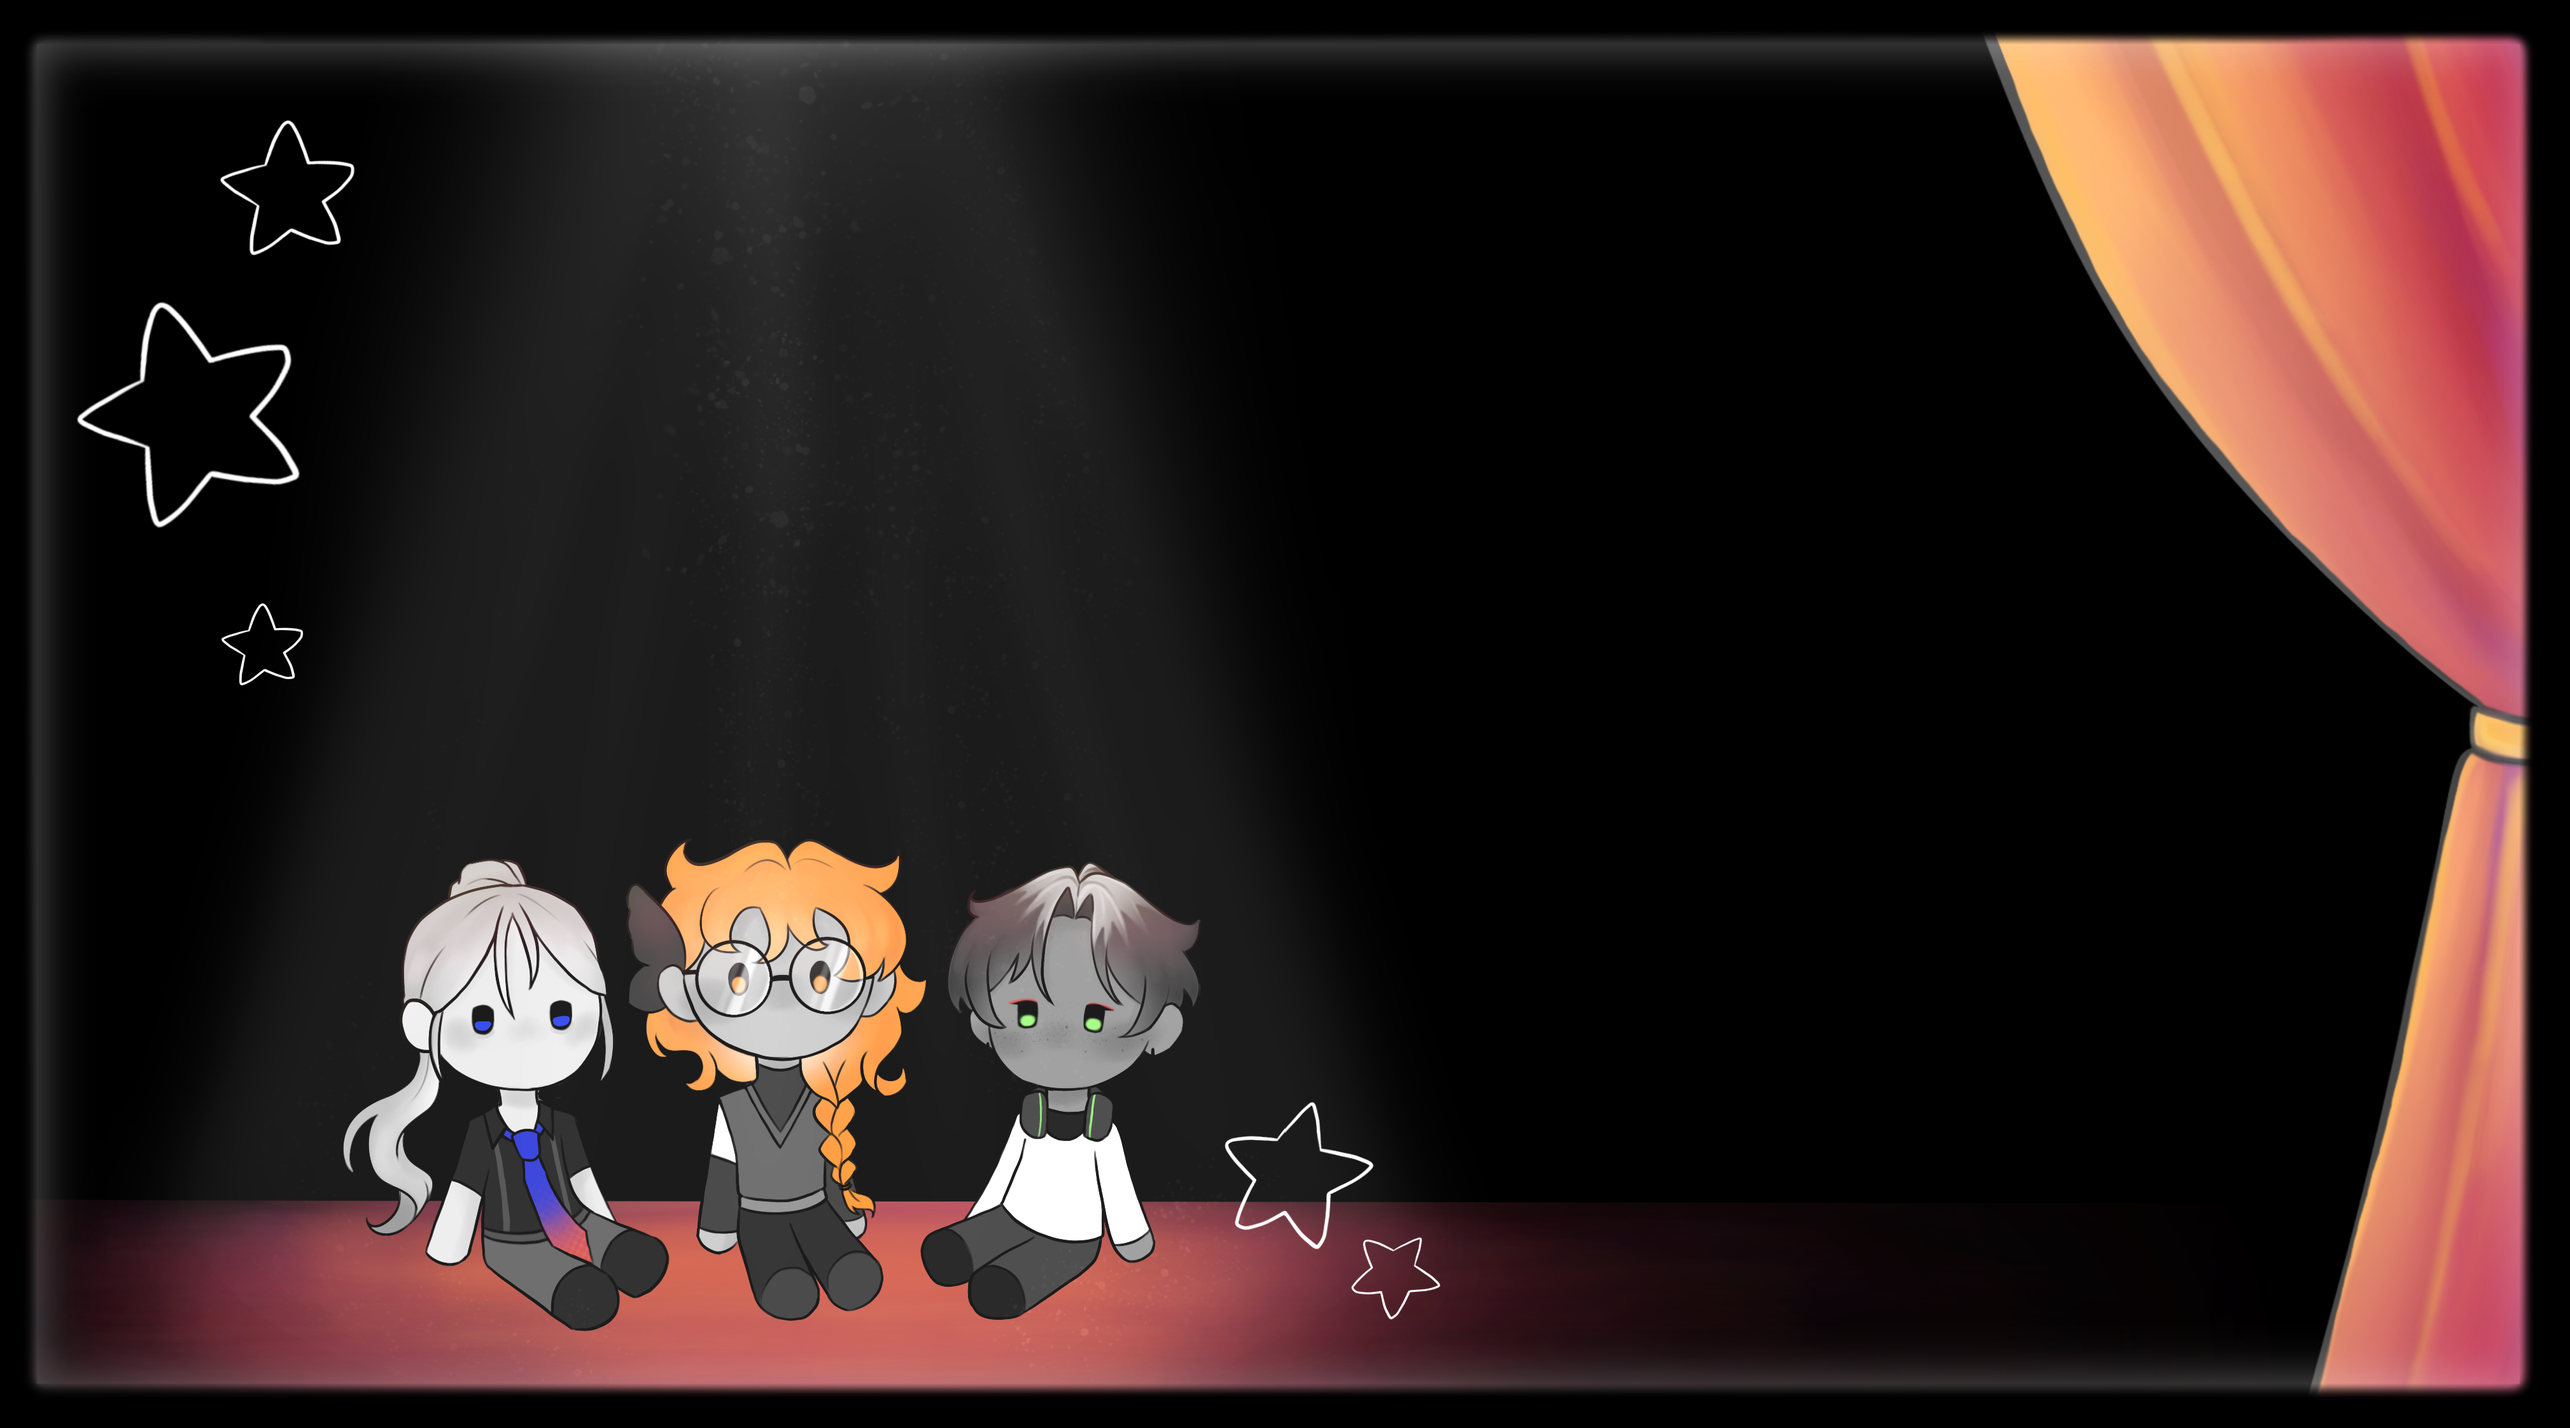
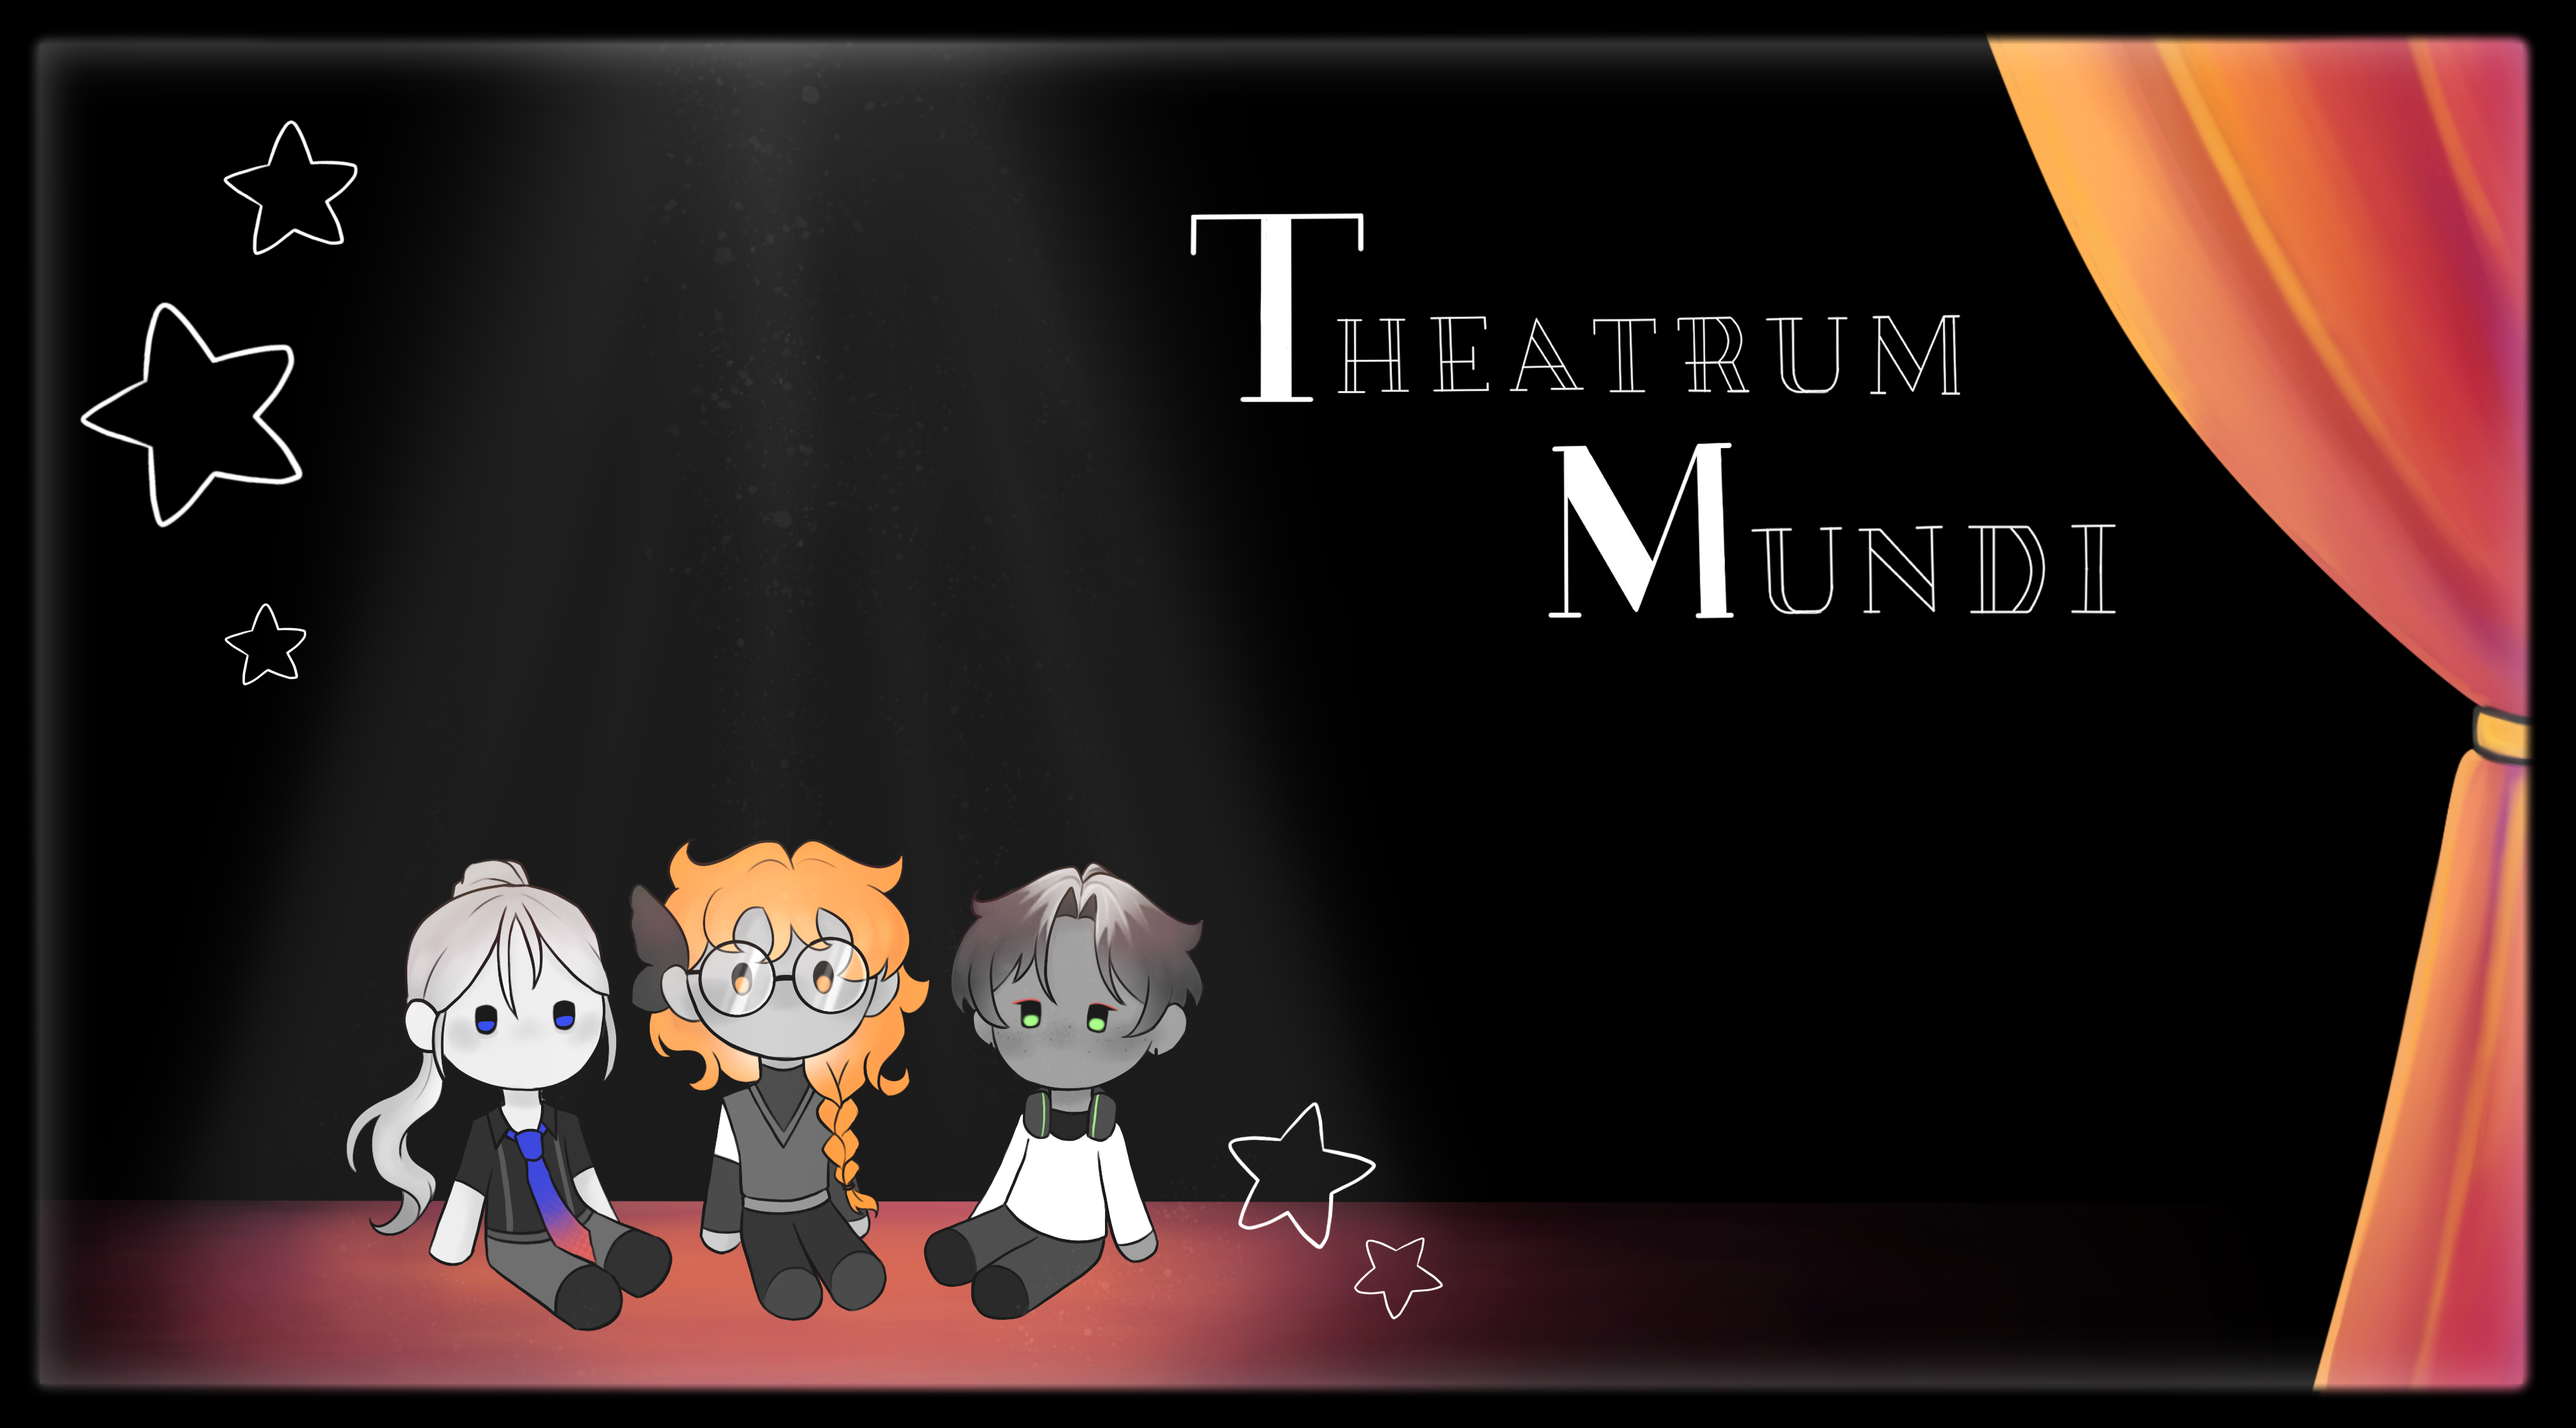
cambio de imagen de manu principal

diff --git a/TheatrumMundiProyect/TheatrumMundi/InitialScene.cpp b/TheatrumMundiProyect/TheatrumMundi/InitialScene.cpp
@@ -28,6 +28,8 @@ void InitialScene::init()
 {
 	if (!isStarted) {
 
+
+
 		GameSave save("savegame.dat");
 		bool tutorialCompleted = save.isTutoCompleted();
 
@@ -57,17 +59,16 @@ void InitialScene::init()
 
 		//Background
 		//ENTIDADCONENTITYFACTORY
-		auto _background = entityFactory->CreateImageEntity(entityManager, "menuInicial", Vector2D(0, 0), Vector2D(0, 0), 1333, 741, 0, ecs::grp::DEFAULT);
+		auto _background = entityFactory->CreateImageEntity(entityManager, "menuInicial", Vector2D(0, 0), Vector2D(0, 0), sdlutils().width(), sdlutils().height(), 0, ecs::grp::DEFAULT);
 
 		
-		//Title
-		//ENTIDADCONENTITYFACTORY
-		auto _title = entityFactory->CreateImageEntity(entityManager, "Title", Vector2D(600, 25), Vector2D(0, 0), 561, 330, 0, ecs::grp::DEFAULT);
+
+		
 		
 
 		//Tutorial button
 		//ENTIDADCONENTITYFACTORY
-		auto _tutobtn = entityFactory->CreateInteractableEntity(entityManager, "TutorialButton", EntityFactory::RECTAREA, Vector2D(850, 350), Vector2D(0, 0), 248, 56, 0, areaLayerManager, EntityFactory::NODRAG, ecs::grp::DEFAULT);
+		auto _tutobtn = entityFactory->CreateInteractableEntity(entityManager, "TutorialButton", EntityFactory::RECTAREA, Vector2D(850, 375), Vector2D(0, 0), 248, 56, 0, areaLayerManager, EntityFactory::NODRAG, ecs::grp::DEFAULT);
 
 		ClickComponent* clktuto = entityManager->getComponent<ClickComponent>(_tutobtn);
 
@@ -86,7 +87,7 @@ void InitialScene::init()
 		//Start button room1
 		//ENTIDADCONENTITYFACTORY
 		if (tutorialCompleted) {
-			auto _startbtn = entityFactory->CreateInteractableEntity(entityManager, "NewGame", EntityFactory::RECTAREA, Vector2D(850, 426), Vector2D(0, 0), 248, 56, 0, areaLayerManager, EntityFactory::NODRAG, ecs::grp::DEFAULT);
+			auto _startbtn = entityFactory->CreateInteractableEntity(entityManager, "NewGame", EntityFactory::RECTAREA, Vector2D(850, 450), Vector2D(0, 0), 248, 56, 0, areaLayerManager, EntityFactory::NODRAG, ecs::grp::DEFAULT);
 
 			ClickComponent* clk = entityManager->getComponent<ClickComponent>(_startbtn);
 
@@ -103,7 +104,7 @@ void InitialScene::init()
 		}
 
 		else {
-			auto _startbtn = entityFactory->CreateInteractableEntity(entityManager, "NewGameLocked", EntityFactory::RECTAREA, Vector2D(850, 502), Vector2D(0, 0), 248, 56, 0, areaLayerManager, EntityFactory::NODRAG, ecs::grp::DEFAULT);
+			auto _startbtn = entityFactory->CreateInteractableEntity(entityManager, "NewGameLocked", EntityFactory::RECTAREA, Vector2D(850, 375), Vector2D(0, 0), 248, 56, 0, areaLayerManager, EntityFactory::NODRAG, ecs::grp::DEFAULT);
 
 			ClickComponent* clk = entityManager->getComponent<ClickComponent>(_startbtn);
 
@@ -115,7 +116,7 @@ void InitialScene::init()
 		}
 		//Exit 
 		//ENTIDADCONENTITYFACTORY
-		auto _exitbtn = entityFactory->CreateInteractableEntity(entityManager, "Exit", EntityFactory::RECTAREA, Vector2D(850, 500), Vector2D(0, 0), 248, 56, 0, areaLayerManager, EntityFactory::NODRAG, ecs::grp::DEFAULT);
+		auto _exitbtn = entityFactory->CreateInteractableEntity(entityManager, "Exit", EntityFactory::RECTAREA, Vector2D(850, 525), Vector2D(0, 0), 248, 56, 0, areaLayerManager, EntityFactory::NODRAG, ecs::grp::DEFAULT);
 
 		ClickComponent* clkext = entityManager->getComponent<ClickComponent>(_exitbtn);
 		clkext->connect(ClickComponent::JUST_CLICKED, [buttonSound]() 
